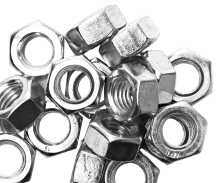
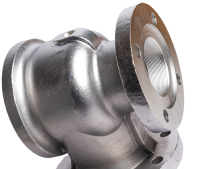
changes

diff --git a/src/pages/index.js b/src/pages/index.js
@@ -690,10 +690,10 @@ export default function Home() {
 								<div className="row">
 									<div className="col-md-4 col-sm-6 mb-3">
 										<div className="white-box p-0 home-prod">
-											<Link href={'/'} className="d-flex align-items-center h-100">
+											<Link href={'/product/pump-components'} className="d-flex align-items-center h-100">
 
 												<div className="img-div d-flex flex-column h-100 justify-content-end">
-													<img className="img-fluid" src="/assets/images/prod-home-3.png" />
+													<img alt="" className="img-fluid" src="/assets/images/prod-home-3.png" />
 												</div>
 												<div className="ms-3">
 													<span className="text-uppercase">Pump Components</span>
@@ -708,9 +708,9 @@ export default function Home() {
 									</div>
 									<div className="col-md-4 col-sm-6 mb-3">
 										<div className="white-box p-0 home-prod">
-											<Link href={'/'} className="d-flex align-items-center h-100">
+											<Link href={'/product/valve-components'} className="d-flex align-items-center h-100">
 												<div className="img-div d-flex flex-column h-100 justify-content-end">
-													<img className="img-fluid" src="/assets/images/prod-home-1.png " />
+													<img alt="" className="img-fluid" src="/assets/images/prod-home-1.png " />
 												</div>
 												<div className="ms-3">
 													<span className="text-uppercase">Valve Components</span>
@@ -725,9 +725,9 @@ export default function Home() {
 									</div>
 									<div className="col-md-4 col-sm-6 mb-3">
 										<div className="white-box p-0 home-prod">
-											<Link href={'/'} className="d-flex align-items-center h-100">
+											<Link href={'/product/fire-equipments'} className="d-flex align-items-center h-100">
 												<div className="img-div d-flex flex-column h-100 justify-content-end">
-													<img className="img-fluid" src="/assets/images/prod-home-2.png " />
+													<img alt="" className="img-fluid" src="/assets/images/prod-home-4.png " />
 												</div>
 												<div className="ms-3">
 													<span className="text-uppercase">Fire Equipment</span>
@@ -742,10 +742,10 @@ export default function Home() {
 									</div>
 									<div className="col-md-4 col-sm-6 mb-3">
 										<div className="white-box p-0 home-prod">
-											<Link href={'/'} className="d-flex align-items-center h-100">
+											<Link href={'/product/hardware'} className="d-flex align-items-center h-100">
 
 												<div className="img-div d-flex flex-column h-100 justify-content-end">
-													<img className="img-fluid" src="/assets/images/prod-home-3.png" />
+													<img alt="" className="img-fluid" src="/assets/images/prod-home-5.png" />
 												</div>
 												<div className="ms-3">
 													<span className="text-uppercase">General Engineering</span>
@@ -760,9 +760,9 @@ export default function Home() {
 									</div>
 									<div className="col-md-4 col-sm-6 mb-3">
 										<div className="white-box p-0 home-prod">
-											<Link href={'/'} className="d-flex align-items-center h-100">
+											<Link href={'/product/general-engineering'} className="d-flex align-items-center h-100">
 												<div className="img-div d-flex flex-column h-100 justify-content-end">
-													<img className="img-fluid" src="/assets/images/prod-home-1.png " />
+													<img alt="" className="img-fluid" src="/assets/images/prod-home-6.png " />
 												</div>
 												<div className="ms-3">
 													<span className="text-uppercase">Hardware</span>

diff --git a/src/components/Layout/Footer.js b/src/components/Layout/Footer.js
@@ -241,17 +241,17 @@ function Footer(props) {
                                     <div className="pages-link">
                                         <ul>
                                             <li>
-                                                <Link href="">
+                                                <Link href="/product/pump-components">
                                                     Pump Components
                                                 </Link>
                                             </li>
                                             <li>
-                                                <Link href="">
+                                                <Link href="/product/valve-components">
                                                     Valve Components
                                                 </Link>
                                             </li>
                                             <li>
-                                                <Link href="">
+                                                <Link href="/product/fire-equipments">
                                                     Fire Equipment
                                                 </Link>
                                             </li>
@@ -263,12 +263,12 @@ function Footer(props) {
 
                                         <ul>
                                             <li>
-                                                <Link href="">
+                                                <Link href="/product/hardware">
                                                     Hardware
                                                 </Link>
                                             </li>
                                             <li>
-                                                <Link href="">
+                                                <Link href="/product/general-engineering">
                                                     General Engineering
                                                 </Link>
                                             </li>
@@ -276,7 +276,9 @@ function Footer(props) {
                                     </div>
                                 </div>
                                 <div className="col-12 mt-3">
-                                    <img src='/assets/images/ft-img.png' className="img-fluid" />
+                                    <Link href="/product#products-id">
+                                        <img src='/assets/images/ft-img.png' className="img-fluid" />
+                                    </Link>
                                 </div>
                             </div>
                         </div>

diff --git a/src/components/Firelayout/Footer.js b/src/components/Firelayout/Footer.js
@@ -241,17 +241,17 @@ function Footer(props) {
                                     <div className="pages-link">
                                         <ul>
                                             <li>
-                                                <Link href="">
+                                                <Link href="#firetech-products">
                                                     Hydrant Valves
                                                 </Link>
                                             </li>
                                             <li>
-                                                <Link href="">
+                                                <Link href="#firetech-products">
                                                     Couplings & Hose
                                                 </Link>
                                             </li>
                                             <li>
-                                                <Link href="">
+                                                <Link href="#firetech-products">
                                                     Nozzles
                                                 </Link>
                                             </li>
@@ -263,17 +263,17 @@ function Footer(props) {
 
                                         <ul>
                                             <li>
-                                                <Link href="">
+                                                <Link href="#firetech-products">
                                                     Hose Reels & Cabinet
                                                 </Link>
                                             </li>
                                             <li>
-                                                <Link href="">
+                                                <Link href="#firetech-products">
                                                     Inlets
                                                 </Link>
                                             </li>
                                             <li>
-                                                <Link href="">
+                                                <Link href="#firetech-products">
                                                     Fire Monitors
                                                 </Link>
                                             </li>

diff --git a/src/pages/fire-tech.js b/src/pages/fire-tech.js
@@ -168,7 +168,10 @@ export default function firetech(props) {
 
                     </div>
                     <div className='col-lg-6 ps-lg-0'>
-                        <img src='/assets/images/firetechright-bg.png' className='mw-100 h-100 object-fit-cover' alt='img' />
+                        {/* <img src='/assets/images/firetechright-bg.png' className='mw-100 h-100 object-fit-cover' alt='img' /> */}
+                        <video autoPlay loop muted controls="false" className='mw-100 h-100 object-fit-cover' controls>
+                            <source src="/assets/images/engraving_video.mp4" type="video/mp4"></source>
+                        </video>
                     </div>
 
 
@@ -302,11 +305,10 @@ export default function firetech(props) {
                             </div>
                         </div>
                         <div className='col-12 text-center'>
-                            <div className='d-flex flex-row flex-sm-column justify-content-center align-items-center'>   
+                            <div className='mw-100 px-3'>   
                                 <img alt="" src='/assets/images/iso-logo-1.png' height={120} className='mw-100 w-auto mx-4 mb-3' />
                                 <img alt="" src='/assets/images/iso-logo-2.png' height={130} className='mw-100 w-auto mx-4 mb-3' />
                                 <img alt="" src='/assets/images/iso-logo-3.png' height={130} className='mw-100 w-auto mx-4 mb-3' />
-        
                             </div>
                         </div>
                     </div>

diff --git a/src/components/ClientLogoSlider.js b/src/components/ClientLogoSlider.js
@@ -30,8 +30,7 @@ const ClientLogoSlider = ({logos}) => {
                 <Swiper
                     slidesPerView={2}
                     spaceBetween={10}
-                    // navigation
-
+                    navigation
                     pagination={{ clickable: true }}
                     scrollbar={{ draggable: true }}
                     autoplay={{ delay: 3000 }}

diff --git a/src/pages/about-us.js b/src/pages/about-us.js
@@ -154,7 +154,7 @@ export default function aboutus(props) {
                                         />
                                         <div className="glass-effect text-center">
                                             <h2 className='text-uppercase'>Core Value</h2>
-                                            <p>We prioritize quality, innovation, and customer satisfaction, driven by integrity and a commitment to sustainable practices in all aspects of our business.</p>
+                                            <p>We prioritize quality & customer satisfaction, driven by integrity & a commitment to sustainable practices in all aspects of our business.</p>
                                         </div>
                                     </div>
                                 </div>

diff --git a/src/pages/product/index.js b/src/pages/product/index.js
@@ -77,7 +77,7 @@ function index(props) {
                         <div className="col-12 py-2">
                             <div className="gradiant-txt qaulity-txt">
                                 <div className="d-flex align-items-center mb-3">
-                                    <h2 className="mb-0">Our   <span>Products</span></h2>
+                                    <h2 className="mb-0" id="products-id">Our   <span>Products</span></h2>
                                     <div className="ms-auto">
                                         <Link href="/" className="btn-1 d-block">
                                             Explore More